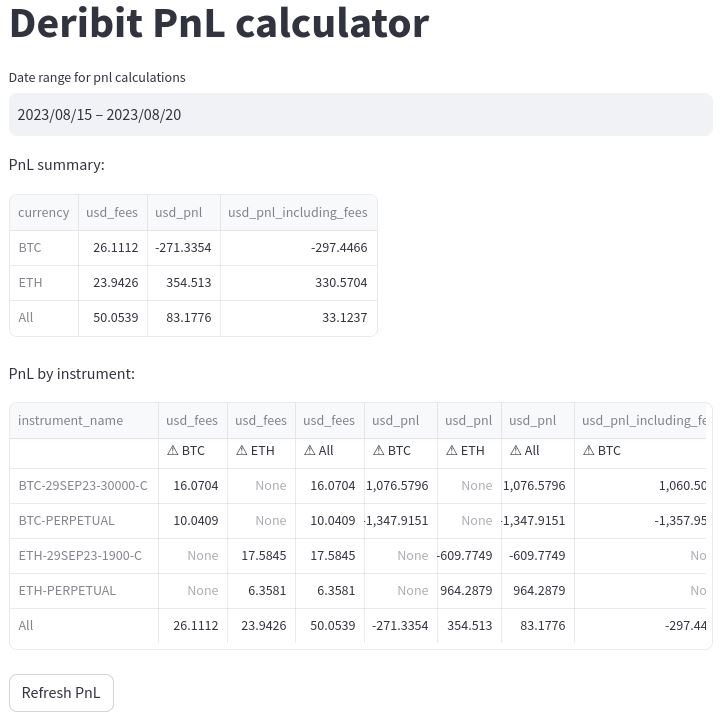
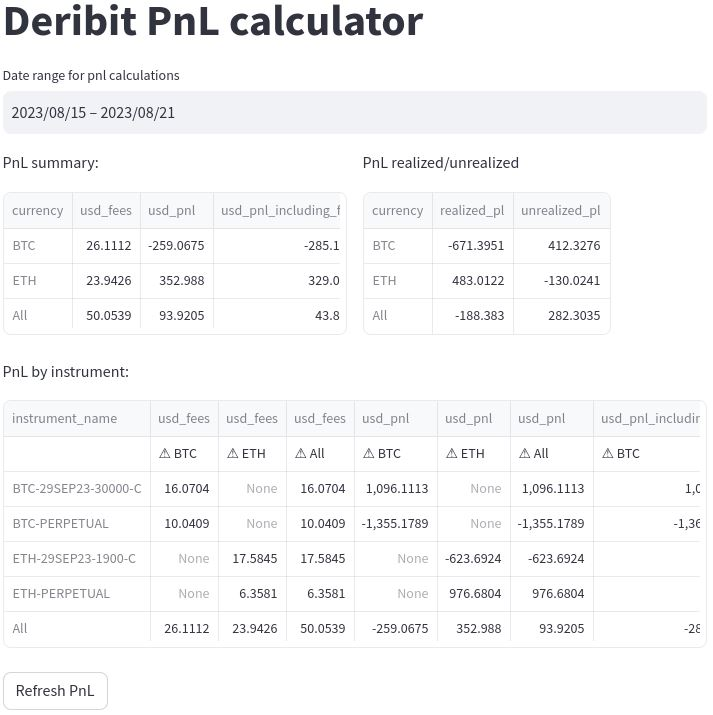
added realized/unrealized pnl breakdown

diff --git a/pnl_calc.py b/pnl_calc.py
@@ -65,6 +65,16 @@ class PnLCalculator():
             str: Direction of the trade (buy/sell).
         """
         return side.split(' ')[1]
+    
+    def _process_transactions_from_db(self, transactions:pd.DataFrame):
+        transactions = transactions[(transactions['type'] == 'trade') & (~transactions['instrument_name'].str.contains('_'))].reset_index(drop=True)
+        transactions[['trade_type', 'expiry','strike','cp']] = pd.DataFrame(transactions['instrument_name'].apply(self._calc_expiry).to_list())
+        transactions['direction'] = transactions['side'].apply(self._get_direction)
+        transactions['timestamp'] = transactions['timestamp'].apply(int)
+        transactions['datetime'] = transactions['timestamp'].apply(unix_ms_to_datetime)
+        transactions.loc[transactions['trade_type'] == 'future', 'amount'] = transactions.loc[transactions['trade_type'] == 'future', 'amount'] / transactions.loc[transactions['trade_type'] == 'future', 'index_price']
+
+        return transactions
                    
     def _load_trades(self):
         """
@@ -80,12 +90,7 @@ class PnLCalculator():
         
         transactions = self.db_wrapper.get_transactions_by_datetime_range(self.start_calc_date,
                                                                           self.end_calc_date)
-        transactions = transactions[(transactions['type'] == 'trade') & (~transactions['instrument_name'].str.contains('_'))].reset_index(drop=True)
-        transactions[['trade_type', 'expiry','strike','cp']] = pd.DataFrame(transactions['instrument_name'].apply(self._calc_expiry).to_list())
-        transactions['direction'] = transactions['side'].apply(self._get_direction)
-        transactions['timestamp'] = transactions['timestamp'].apply(int)
-        transactions['datetime'] = transactions['timestamp'].apply(unix_ms_to_datetime)
-        self.trades = transactions
+        self.trades = self._process_transactions_from_db(transactions)
 
     def _get_trades(self):
         """
@@ -128,7 +133,7 @@ class PnLCalculator():
         tasks_instruments = [self._update_instrument_price(instrument) for instrument in instruments]
         tasks_ccy = [self._update_ccy_price(ccy) for ccy in ccy_list]
 
-        batch_size = 25
+        batch_size = 20
         num_batches = len(tasks_instruments) // batch_size + (1 if len(tasks_instruments) % batch_size > 0 else 0)
 
         for batch_idx in range(num_batches):
@@ -200,12 +205,12 @@ class PnLCalculator():
                        - trade['price'] * trade['index_price']) \
                         * trade['amount']
         elif trade['trade_type'] == 'future':
-            usd_pnl =  (self.instrument_live_prices[trade['instrument_name']] -  trade['price']) * trade['amount'] / trade['index_price']
+            usd_pnl =  (self.instrument_live_prices[trade['instrument_name']] -  trade['price']) * trade['amount'] 
         usd_pnl = usd_pnl  * (1 if trade['direction'] == 'buy' else -1)
 
         usd_fees = trade['commission'] * trade['index_price']
         return usd_pnl, usd_pnl - usd_fees, usd_fees
-    
+        
     def update_pnl(self):
         """
         Updates PnL for all trades.
@@ -217,3 +222,79 @@ class PnLCalculator():
             self.trades.loc[idx, 'usd_pnl'] = usd_pnl
             self.trades.loc[idx, 'usd_pnl_including_fees'] = usd_pnl_including_fees
             self.trades.loc[idx, 'usd_fees'] = usd_fees
+        
+        positions = self.calculate_positions()
+        return positions
+    
+    def calculate_positions(self, currency='usd'):
+        if currency == 'usd':
+            self.trades.loc[self.trades['trade_type'] == 'option', 'price'] = self.trades.loc[self.trades['trade_type'] == 'option', 'price']\
+                                                                * (self.trades.loc[self.trades['trade_type'] == 'option', 'index_price'])
+        positions = pd.DataFrame() 
+        for instrument in self.trades['instrument_name'].unique():
+            trades_subset = self.trades[self.trades['instrument_name'] == instrument].sort_values(by='timestamp', ascending=True).reset_index(drop=True)
+            for idx, row in trades_subset.iterrows():
+                trades_subset.loc[idx, 'buy'] = trades_subset[trades_subset['direction'] == 'buy'].loc[0:idx, 'amount'].sum()
+                trades_subset.loc[idx, 'sell'] = trades_subset[trades_subset['direction'] == 'sell'].loc[0:idx, 'amount'].sum()
+                trades_subset.loc[idx, 'long/short'] = 'long' if trades_subset.loc[idx, 'buy'] > trades_subset.loc[idx, 'sell'] else 'short'
+
+                buy_amount_subset = trades_subset[trades_subset['direction'] == 'buy'].loc[0:idx, 'amount']
+                buy_price_subset = trades_subset[trades_subset['direction'] == 'buy'].loc[0:idx, 'price']
+                sell_amount_subset = trades_subset[trades_subset['direction'] == 'sell'].loc[0:idx, 'amount']
+                sell_price_subset = trades_subset[trades_subset['direction'] == 'sell'].loc[0:idx, 'price']
+                
+                if not buy_amount_subset.empty:
+                    trades_subset.loc[idx, 'avg_long'] = buy_amount_subset.dot(buy_price_subset) / buy_amount_subset.sum()
+                else:
+                    trades_subset.loc[idx, 'avg_long'] = 0
+
+                if not sell_amount_subset.empty:
+                    trades_subset.loc[idx, 'avg_short'] = sell_amount_subset.dot(sell_price_subset) / sell_amount_subset.sum()
+                else:
+                    trades_subset.loc[idx, 'avg_short'] = 0
+                
+            last_idx = trades_subset.index[-1]
+            trades_subset.loc[last_idx, 'avg_long_to_short'] = trades_subset.loc[(trades_subset['buy'] < trades_subset['sell']).index[-1], 'avg_long']
+            trades_subset.loc[last_idx, 'avg_short_to_long'] = trades_subset.loc[(trades_subset['sell'] < trades_subset['buy']).index[-1], 'avg_short']
+            
+
+            last_row = trades_subset.iloc[last_idx]
+            if last_row['long/short'] == 'long':
+                trades_subset.loc[last_idx, 'realized_pl'] = (last_row['avg_short'] - last_row['avg_long_to_short']) * last_row['sell'] 
+            else:
+                trades_subset.loc[last_idx, 'realized_pl'] = (last_row['avg_short_to_long'] - last_row['avg_long']) * last_row['buy']
+
+            # print(trades_subset)
+            live_price = self.instrument_live_prices[instrument] * (1 if last_row['trade_type'] == 'future' else self.instrument_live_prices[last_row['currency']])
+            trades_subset.loc[last_idx, 'unrealized_pl'] = (live_price - last_row['avg_long']) * last_row['buy'] \
+                                                         + (last_row['avg_short'] - live_price) * last_row['sell'] \
+                                                         - trades_subset.loc[last_idx, 'realized_pl']
+            
+            # if trades_subset.loc[0, 'trade_type'] == 'option':
+            #     trades_subset.loc[last_idx, 'realized_pl'] = trades_subset.loc[last_idx, 'realized_pl']  * self.instrument_live_prices[last_row['currency']]
+            #     trades_subset.loc[last_idx, 'unrealized_pl'] = trades_subset.loc[last_idx, 'unrealized_pl'] * self.instrument_live_prices[last_row['currency']]
+
+            positions = pd.concat([positions, pd.DataFrame(trades_subset.loc[last_idx]).T], axis=0)
+            # print(trades_subset)
+
+        return positions
+        
+        
+
+if __name__ == "__main__":
+    config = read_json('config.json')
+    db_wrapper = DBWrapper(config['db_path'])
+    deribit_wrapper = DeribitApiWrapper(config)
+    start = datetime(2023, 8, 1)
+    end = datetime.now()
+
+    pnl_calc = PnLCalculator(config,
+                             db_wrapper=db_wrapper,
+                             deribit_wrapper=deribit_wrapper,
+                             start_range=start,
+                             end_range=end)
+    
+    positions = pnl_calc.calculate_positions()
+    print(positions)
+    print(positions['realized_pl'].sum())
+    print(positions['unrealized_pl'].sum())

diff --git a/streamlit_gui.py b/streamlit_gui.py
@@ -10,41 +10,49 @@ from datetime import timedelta
 def main():
     st.title("Deribit PnL calculator")
 
+    start = datetime(2023, 8, 1)
+    end = datetime.now()
+    date_range = st.date_input(
+        "Date range for pnl calculations",
+        (start, end),
+        end - timedelta(weeks=52),
+        end
+    )
+    
+    if len(date_range) > 1:
+        start_range = datetime.combine(date_range[0], datetime.min.time())
+        end_range = datetime.combine(date_range[1], datetime.min.time())
+        pnl_calc = PnLCalculator(config,
+                             db_wrapper=db_wrapper,
+                             deribit_wrapper=deribit_wrapper,
+                             start_range=start_range,
+                             end_range=end_range)
+        positions = pnl_calc.update_pnl()
+        raw_data_with_pnl = pnl_calc._get_trades()
+        
+        # filtered_data = raw_data_with_pnl[(raw_data_with_pnl['datetime'] >= datetime.combine(date_range[0], datetime.min.time())) \
+        #                                   & (raw_data_with_pnl['datetime'] <= datetime.combine(date_range[1], datetime.min.time()))]
+
+        col1, col2 = st.columns(2)
+        with col1:
+            st.write("PnL summary:")
+            st.dataframe(raw_data_with_pnl.pivot_table(index='currency', values=['usd_pnl', 'usd_pnl_including_fees', 'usd_fees'], aggfunc=sum, margins=True))
+
+        with col2:
+            st.write("PnL realized/unrealized")
+            st.dataframe(positions.pivot_table(index='currency', values=['realized_pl', 'unrealized_pl'], aggfunc=sum, margins=True))
+
+        st.write("PnL by instrument:")
+        st.dataframe(raw_data_with_pnl.pivot_table(index='instrument_name', values=['usd_pnl', 'usd_pnl_including_fees', 'usd_fees'], columns='currency', aggfunc=sum, margins=True))
+
+        if st.button("Refresh PnL"):
+            pnl_calc.update_pnl()
+
+if __name__ == "__main__":
     config = read_json('config.json')
     db_wrapper = DBWrapper(config['db_path'])
     deribit_wrapper = DeribitApiWrapper(config)
 
-    start = datetime(2022, 8, 1)
-    end = datetime.now()
-
-    date_range = st.date_input(
-        "Date range for pnl calculations",
-        (start, end),
-        start,
-        end
-    )
-
-    pnl_calc = PnLCalculator(config,
-                             db_wrapper=db_wrapper,
-                             deribit_wrapper=deribit_wrapper,
-                             start_range=start,
-                             end_range=end)
-    
-    pnl_calc.update_pnl()
-    raw_data = pnl_calc._get_trades()
-
-    filtered_data = raw_data[(raw_data['datetime'] >= datetime.combine(date_range[0], datetime.min.time())) & (raw_data['datetime'] <= datetime.combine(date_range[1], datetime.min.time()))]
-
-    st.write("PnL summary:")
-    st.dataframe(filtered_data.pivot_table(index='currency', values=['usd_pnl', 'usd_pnl_including_fees', 'usd_fees'], aggfunc=sum, margins=True))
-
-    st.write("PnL by instrument:")
-    st.dataframe(filtered_data.pivot_table(index='instrument_name', values=['usd_pnl', 'usd_pnl_including_fees', 'usd_fees'], columns='currency', aggfunc=sum, margins=True))
-
-    if st.button("Refresh PnL"):
-        pnl_calc.update_pnl()
-
-if __name__ == "__main__":
     loop = asyncio.new_event_loop()
     asyncio.set_event_loop(loop)
     main()

diff --git a/README.md b/README.md
@@ -1,4 +1,4 @@
-# Deribit PnL Calculator App (realized + unrealized)
+# Deribit PnL Calculator (realized + unrealized)
 
 This is a Streamlit app that calculates and displays Profit and Loss (PnL) information for trades on the Deribit cryptocurrency exchange. It utilizes the Deribit API to fetch trade and price data, and a SQLite database to store transaction records. The app displays PnL summaries by currency and instrument, and allows users to refresh the PnL calculations.
 
